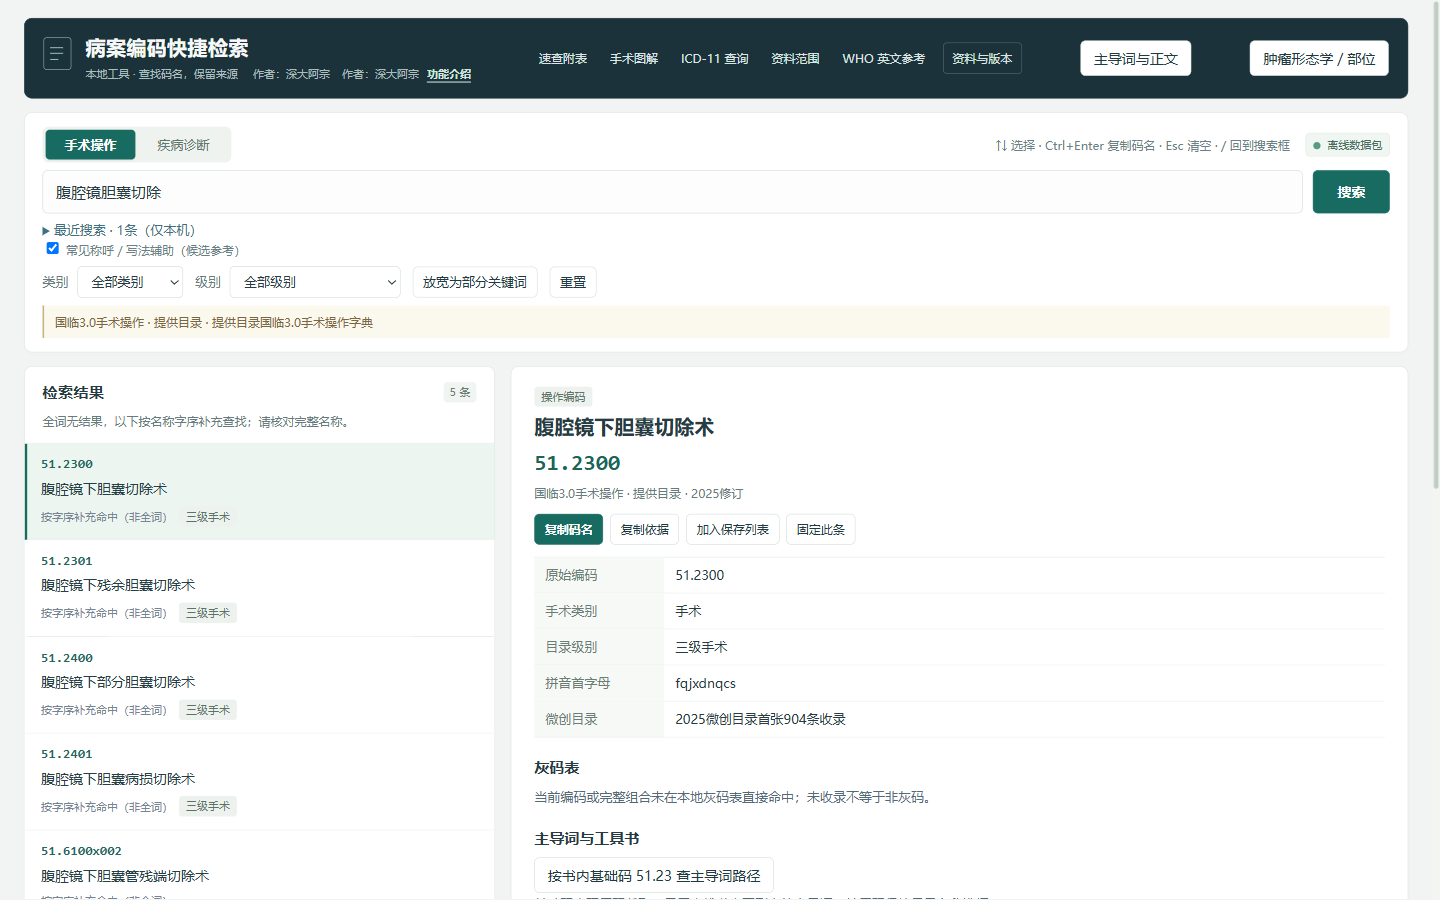
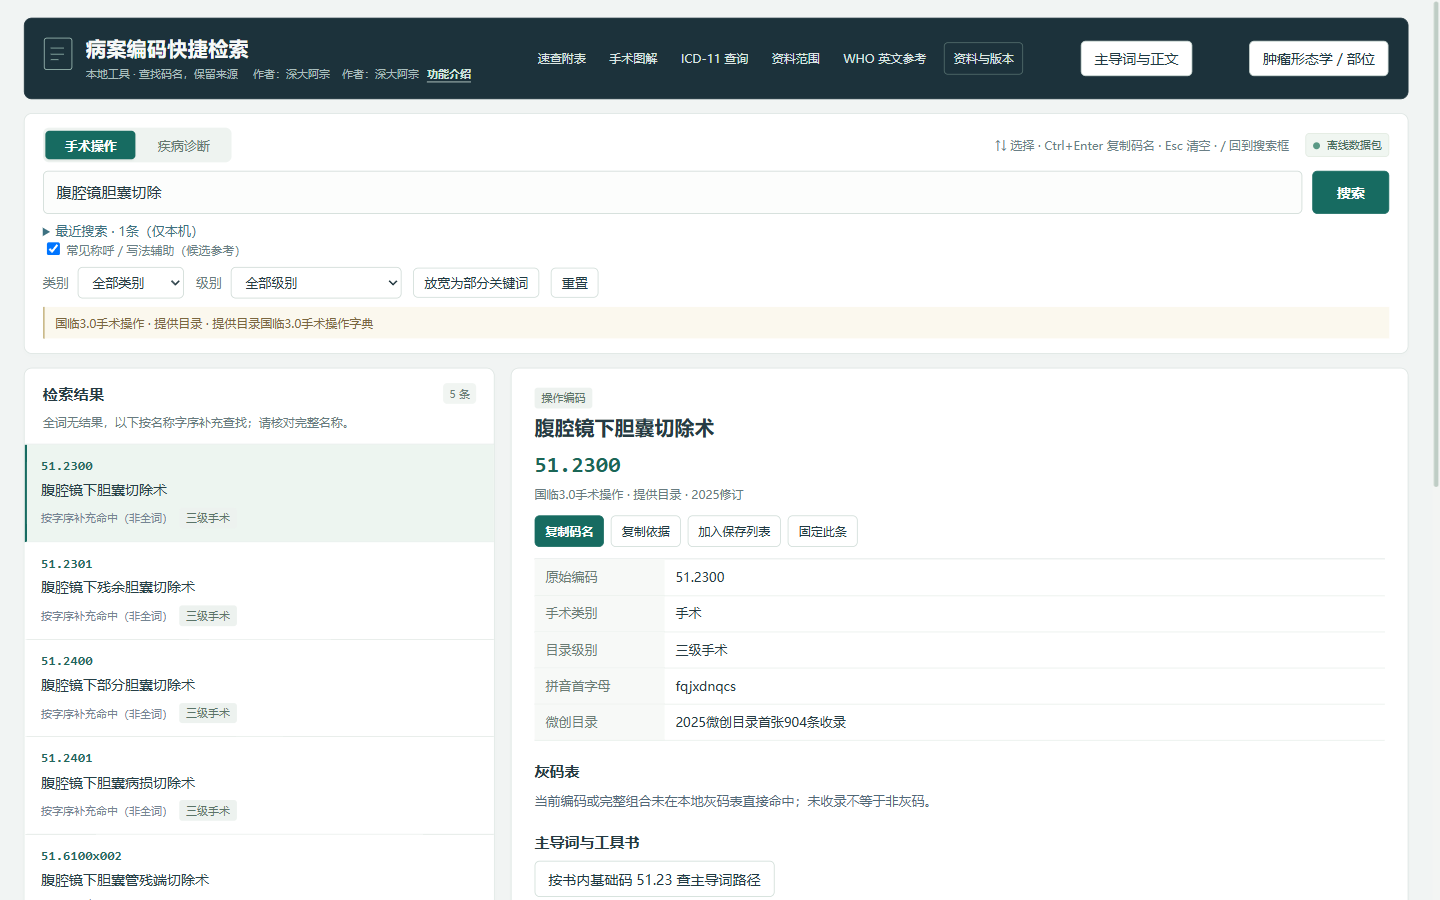
docs: update WHO ICD-11 details for release 0.7.0

diff --git a/README.md b/README.md
@@ -1,19 +1,19 @@
 # 病案编码快捷检索
 
-病案编码快捷检索是一款面向病案编码、病案管理与编码学习场景的 Windows 离线工具。提供**诊断编码检索、手术操作编码检索、灰码标记与差异查阅、WHO ICD-11 中英文简表查询、本次查阅与常用收藏、条目备注、固定参照、码名及依据复制、JSON 备份导入导出**等功能。**0.6.0新增WHO ICD-10多版本对照（国内基础的2008版，可切换2010／2016／2019并查看版本变化）、ICD-11条目详情（WHO官方定义、包括、不包括、编码至他处、索引词与同义词、围生期／孕产期相关条目，中英文原文），速查附表改为“查到即可对应编码候选”：《国家医保药品目录（2025年）》抗肿瘤药物282条、FDA器械库神经刺激器71个型号、骨修复与填充材料7类规则。常见称呼辅助、最近搜索、中文参考对照及18张开放图解继续提供。另保留主导词路径、分类正文及ICD-O-4肿瘤形态学／部位／变更查询界面，使用者导入自有资料后启用；这些可选资料不随公开下载包分发。**
+病案编码快捷检索是一款面向病案编码、病案管理与编码学习场景的 Windows 离线工具。提供**诊断编码检索、手术操作编码检索、灰码标记与差异查阅、WHO ICD-11 中英文简表查询、本次查阅与常用收藏、条目备注、固定参照、码名及依据复制、JSON 备份导入导出**等功能。**0.6.0新增WHO ICD-10多版本对照（国内基础的2008版，可切换2010／2016／2019并查看版本变化）、ICD-11条目详情（WHO官方定义、包括、不包括、其他位置的关联下位条目、索引词与同义词、围生期／孕产期相关条目，中英文原文），速查附表改为“提供编码候选，需结合病历和规则核对”：《国家医保药品目录（2025年）》抗肿瘤药物282条、FDA器械库神经刺激器71个型号、骨修复与填充材料7类规则。常见称呼辅助、最近搜索、中文参考对照及18张开放图解继续提供。另保留主导词路径、分类正文及ICD-O-4肿瘤形态学／部位／变更查询界面，使用者导入自有资料后启用；这些可选资料不随公开下载包分发。**
 
 支持按编码、中文名称、多关键词和拼音首字母查找；连续中文全词无结果时，还可按字序补充查找并注明命中原因。候选列表和条目详情并列显示，方便查找码名、核对编码原文与资料版本、整理日常查阅记录。
 
 **作者：深大阿宗。免费提供，请勿购买。** 无需账号，检索与个人保存可离线使用；打开官方参考网站时需要联网。
 
-**当前版本：0.6.0（2026-10-31），公开发行版。暂不公开独立源码工程。**
+**当前版本：0.7.0（2026-11-03），公开发行版。暂不公开独立源码工程。**
 
 项目名称：病案编码快捷检索  
 官方项目网址：https://github.com/MRxu-1/medical-record-search
 
 ## 下载与运行
 
-打开本项目 **[最新版本下载](https://github.com/MRxu-1/medical-record-search/releases/latest)**，下载 `medical-record-search-v0.6.0-win-x64.zip`。完整解压后双击 `病案编码快捷检索.exe`，保留旁边的 DLL 与“程序资源”文件夹。不要下载 GitHub 自动生成的“Source code”压缩包来运行，那只是本仓库说明文件的快照。
+打开本项目 **[最新版本下载](https://github.com/MRxu-1/medical-record-search/releases/latest)**，下载 `medical-record-search-v0.7.0-win-x64.zip`。完整解压后双击 `病案编码快捷检索.exe`，保留旁边的 DLL 与“程序资源”文件夹。不要下载 GitHub 自动生成的“Source code”压缩包来运行，那只是本仓库说明文件的快照。
 
 需要 Windows 10/11 64 位、.NET Framework 4.6.2 或以上，以及 [Microsoft Edge WebView2 Runtime](https://developer.microsoft.com/microsoft-edge/webview2/)；运行环境未捆绑。检索可离线使用，官方参考网站需要主动联网。未测试所有 Windows 10/11 环境。
 
@@ -26,7 +26,7 @@
 | **多方式快速查找** | 支持编码、中文名称、空格分隔的多关键词及拼音首字母。连续中文全词无结果时，按汉字顺序补充候选并标明原因，便于处理“腹腔镜胆囊切除”等常见输入。 |
 | **灰码标记与差异查阅** | 展示灰码表收录标记，保留同码异名、换码及组合码的来源记录，便于分别查看国临侧与医保侧已有信息。医保诊断侧仅覆盖灰码表范围，不能当作完整医保目录。 |
 | **WHO ICD-10 多版本** | 诊断详情显示对应的WHO ICD-10英文条目，默认国内基础的2008版，可切换2010／2016／2019，查看该码在各版本中的新增、改名或删除。 |
-| **WHO ICD-11 公开简表与详情** | 查询WHO 2026-01中英文简表，按编码、中英文名称或WHO索引词查找；详情显示官方定义、包括、不包括（可点击跳转）、编码至他处、索引词与同义词、围生期／孕产期相关条目及英文原文，并可打开WHO官方条目。 |
+| **WHO ICD-11 公开简表与详情** | 查询WHO 2026-01中英文简表，按编码、中英文名称或WHO索引词查找；详情显示官方定义、包括、不包括（可点击跳转）、其他位置的关联下位条目、索引词与同义词、围生期／孕产期相关条目及英文原文，并可打开WHO官方条目。 |
 | **速查附表** | 抗肿瘤药物（国家医保目录2025）按治疗类别对应诊断与操作编码候选；神经刺激器按FDA器械库型号与可充电／多列规则对应86.94～86.98；骨修复与填充材料按材料对应编码。点编码可回编码检索。 |
 | **本次查阅与常用收藏** | 将目录或ICD-11条目加入统一保存列表，区分本次与常用，保留条目及来源快照，并添加个人备注，方便再次查阅。 |
 | **固定参照** | 固定一条目录记录作为参照，继续检索并查看另一条记录，在同一页面核对码名和已有属性。 |

diff --git a/第三方资料说明.md b/第三方资料说明.md
@@ -6,13 +6,13 @@ ICD-11：International Classification of Diseases, Eleventh Revision (ICD-11), W
 Licensed under the Creative Commons Attribution-NoDerivatives 3.0 IGO licence (CC BY-ND 3.0 IGO).
 许可：https://creativecommons.org/licenses/by-nd/3.0/igo/
 WHO条款：https://icd.who.int/en/docs/ICD11-license.pdf
-本包版本：WHO 2026-01中英文官方简表，以及条目详情（定义、包括、不包括、编码至他处、索引词、同义词、围生期／孕产期相关条目），取自WHO ICD-API 2026-01及同版WHO中文导出，原文显示。保留原代码、原表标题及Foundation／Linearization URI；原表无代码的分组保留其URI及原分组标识，未自行赋码。英文补充及原表续行标源。“上层中的不包括”由本工具按上级条目汇总显示，非WHO单列字段（WHO ICD-11许可第1.2.5条）。界面、检索、备注为本工具功能，不属于WHO分类原文。未自行翻译分类、修改编码标准或建立跨分类映射；WHO ICD-10／ICD-11映射表不随本包分发（许可第1.2.4条）。WHO未认可或背书本软件。
+本包版本：WHO 2026-01中英文官方简表，以及条目详情（定义、包括、不包括、其他位置的关联下位条目、索引词、同义词、围生期／孕产期相关条目），中英文均取自WHO ICD-API 2026-01，原样显示。保留原代码、原表标题及Foundation／Linearization URI；原表无代码的分组保留其URI及原分组标识，未自行赋码。英文补充及原表续行标源。“上层中的不包括”由本工具按上级条目汇总显示，非WHO单列字段（WHO ICD-11许可第1.2.5条）。界面、检索、备注为本工具功能，不属于WHO分类原文。未自行翻译分类、修改编码标准或建立跨分类映射；WHO ICD-10／ICD-11映射表不随本包分发（许可第1.2.4条）。WHO未认可或背书本软件。
 
-ICD-10：International Statistical Classification of Diseases and Related Health Problems, 10th Revision (ICD-10), World Health Organization. 本包含WHO ICD-10 2008版英文条目，以及2010、2016、2019版相对2008版的差异，取自WHO发布的ClaML文件 https://icdcdn.who.int/icd10/claml/ ；条目原文显示，未改动。ICD-10不适用上述ICD-11的CC BY-ND许可；WHO未就ICD-10给出公开许可条款，本软件免费、非商业提供，如WHO对此另有要求，将按其要求调整或移除。WHO未认可或背书本软件。
+ICD-10：International Statistical Classification of Diseases and Related Health Problems, 10th Revision (ICD-10), World Health Organization. 本包含WHO ICD-10 2008版英文条目，以及2010、2016、2019版相对2008版的差异，取自WHO发布的ClaML文件 https://icdcdn.who.int/icd10/claml/ ；条目原文显示，未改动。ICD-10版权属WHO。本工具免费提供，未另行取得WHO授权；如WHO要求停止提供，作者将下架此功能。WHO未认可或背书本软件。
 
 诊断、手术、医保灰码及相关公开目录：按提供者确认可分享的公开字典纳入，保留资料来源版本和原件指纹。公开范围及来源见程序“资料与版本”。这些目录不是本工具原创内容，也未作为本工具自有许可或开源许可重新授权；使用者仍应遵守适用的原始来源条件。不含患者记录，医保诊断侧非完整目录。
 
-本包未含：第三方icd_flask数据／代码、中文工具书及OCR、ICD-O-4整表、WHO ICD-10／ICD-11映射表。其授权状态不因本包省略而被判定为禁止使用；只是不在本次公开分发范围内。
+本包未含：主导词路径及分类正文资料、中文工具书及OCR、ICD-O-4整表、WHO ICD-10／ICD-11映射表。其授权状态不因本包省略而被判定为禁止使用；只是不在本次公开分发范围内。
 
 Microsoft.Web.WebView2 1.0.4258.31：以下完整保留组件LICENSE及NOTICE。自有程序使用条件不限制这些组件原许可赋予的权利。
 

diff --git a/CHANGELOG.md b/CHANGELOG.md
@@ -1,9 +1,13 @@
 # 更新记录
 
-0.6.0 · 2026-10-31 · 公开发行版
+0.7.0 · 2026-11-03 · 公开发行版
+ICD-11中英文详情更新为WHO API 2026-01原文，修正原有详情中部分遗漏和关联差异。
+修正ICD-11详情的关联下位条目表述与编码注释显示；同步当前检索程序。原书重建资料不随公开包分发。
+
+0.6.0 · 2026-10-31
 新增WHO ICD-10多版本对照：诊断详情显示对应的WHO英文条目，默认国内基础的2008版，可切换2010／2016／2019并查看版本变化。
-新增ICD-11条目详情：WHO官方定义、包括、不包括（可跳转）、编码至他处、索引词与同义词、围生期／孕产期相关条目及英文原文；可按WHO索引词搜索。
-速查附表重建为“查到即可对应编码候选”：《国家医保药品目录（2025年）》抗肿瘤药物282条、FDA器械库神经刺激器71个型号、骨修复与填充材料7类规则；替换旧版185行历史条目。
+新增ICD-11条目详情：WHO官方定义、包括、不包括（可跳转）、其他位置的关联下位条目、索引词与同义词、围生期／孕产期相关条目及英文原文；可按WHO索引词搜索。
+速查附表重建为“提供编码候选，需结合病历和规则核对”：《国家医保药品目录（2025年）》抗肿瘤药物282条、FDA器械库神经刺激器71个型号、骨修复与填充材料7类规则；替换旧版185行历史条目。
 程序页面改用当前本机版的检索与详情代码；ICD-10／ICD-11映射表、主导词数据、原书与ICD-O-4整表仍不随包。
 诊断目录记录内容未变，旧保存列表照常显示；因内部记录标识随源表文件更新，升级后对同一诊断再次保存可能出现重复条目，可手动删除。
 
